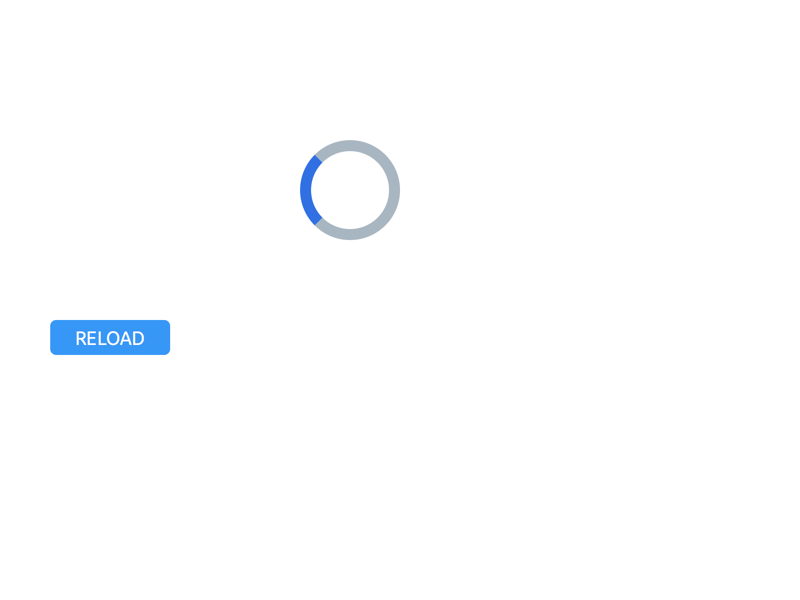
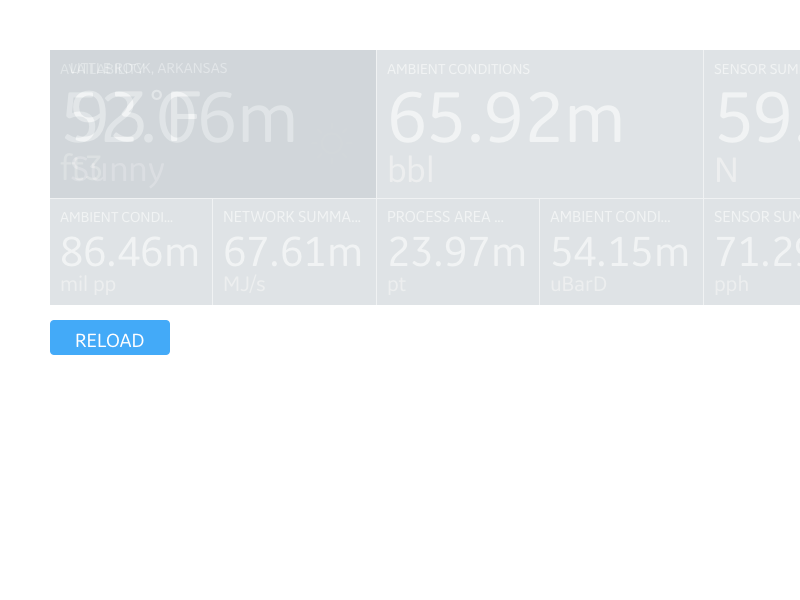
updates to readme file

diff --git a/kpiSpine.framer/framer/framer.modules.js b/kpiSpine.framer/framer/framer.modules.js
@@ -9,4 +9,4 @@ exports.myArray = [1, 2, 3];
 
 
 },{}]},{},[])
[2 lines of base64/hex data omitted]

diff --git a/kpiSpine.framer/framer/framer.vekter.js b/kpiSpine.framer/framer/framer.vekter.js
@@ -1,0 +1,1 @@
+(function(scope) {if (scope["__vekterVariables"]) { scope["__vekterVariables"].map(function(variable) { delete scope[variable] } ) };Object.assign(scope, {});scope["__vekterVariables"] = [""];if (typeof Framer.CurrentContext.layout === 'function') {Framer.CurrentContext.layout()};})(window);

diff --git a/README.md b/README.md
@@ -1,5 +1,16 @@
-# Dynamic KPI Spine Widget
+# Dynamic KPI Spine
 by Ed Monterrubio</br>
 April 26, 2017
 
-<a href="https://framer.cloud/kcoOh" target="_blank">View Prototype</a>
+Framer prototype works on Chrome, Firefox and Safari
+
+<a href="https://framer.cloud/EpWvs" target="_blank">Launch Prototype</a>
+
+## Component Description:
+This UI component is used for displaying KPIs in a dashboard layout. KPIs may be displayed as a tile with one large number or value.
+
+## Objective:
+I set up this prototype in order to test and validate my assumption around the value of animated numeric values and also, on animated weather widgets. I worked with constraints that offered fixed sizes to the different widgets inside the component and needed to evaluate the behavior of different label sizes and numeric values. I implemented subtle icon animations to the wheather widget which, based on location, would show the relationship between text forcast and the icon design.
+
+## Outcome:
+User testing was very positive, mostly around the enhancement of the weather widget. The animated numeric values proved to be too much due to the density of the labels and data.
